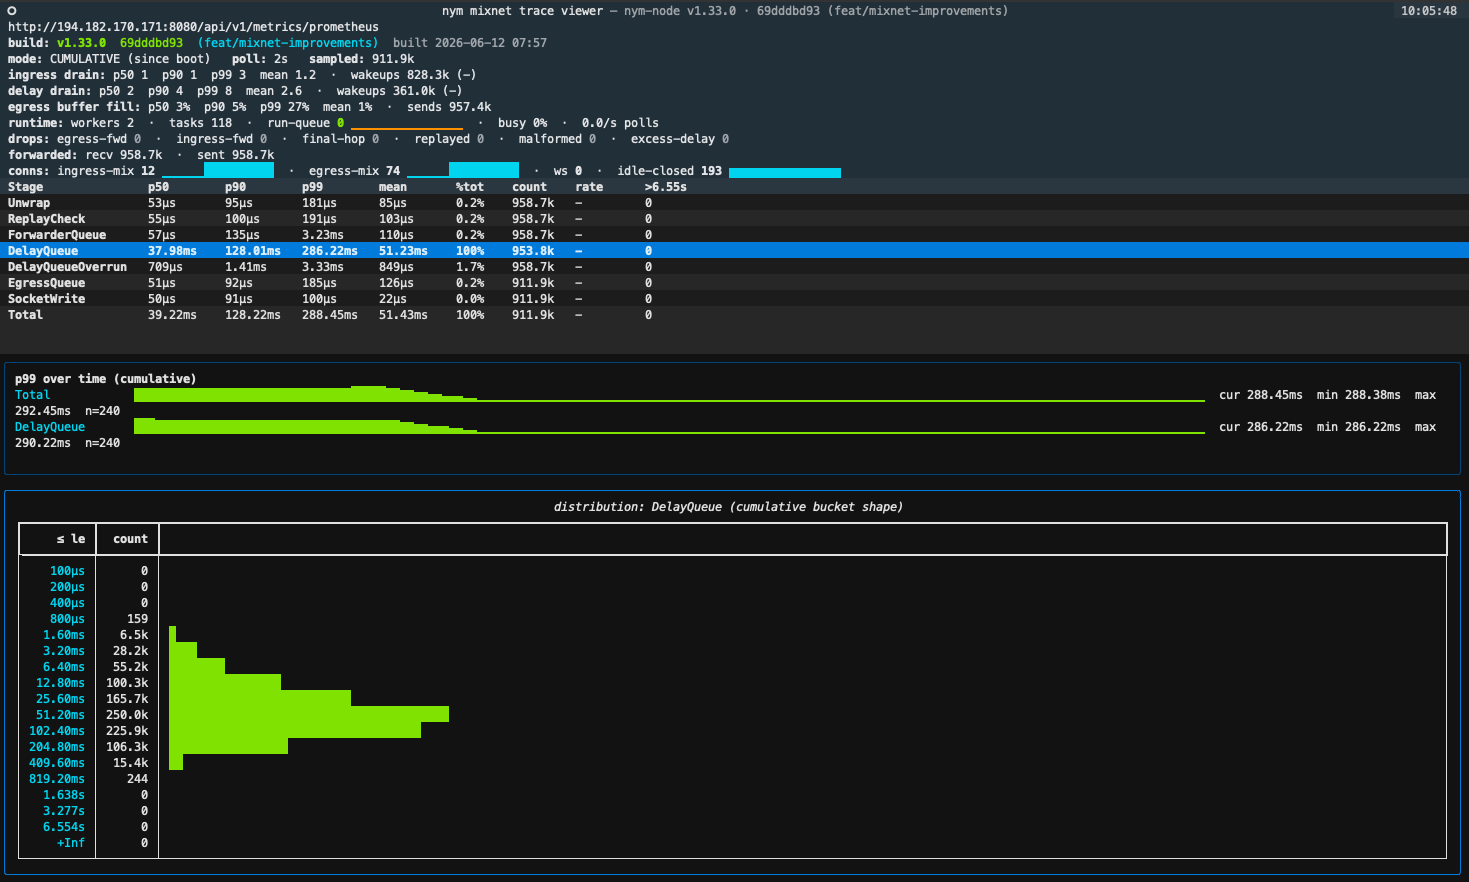
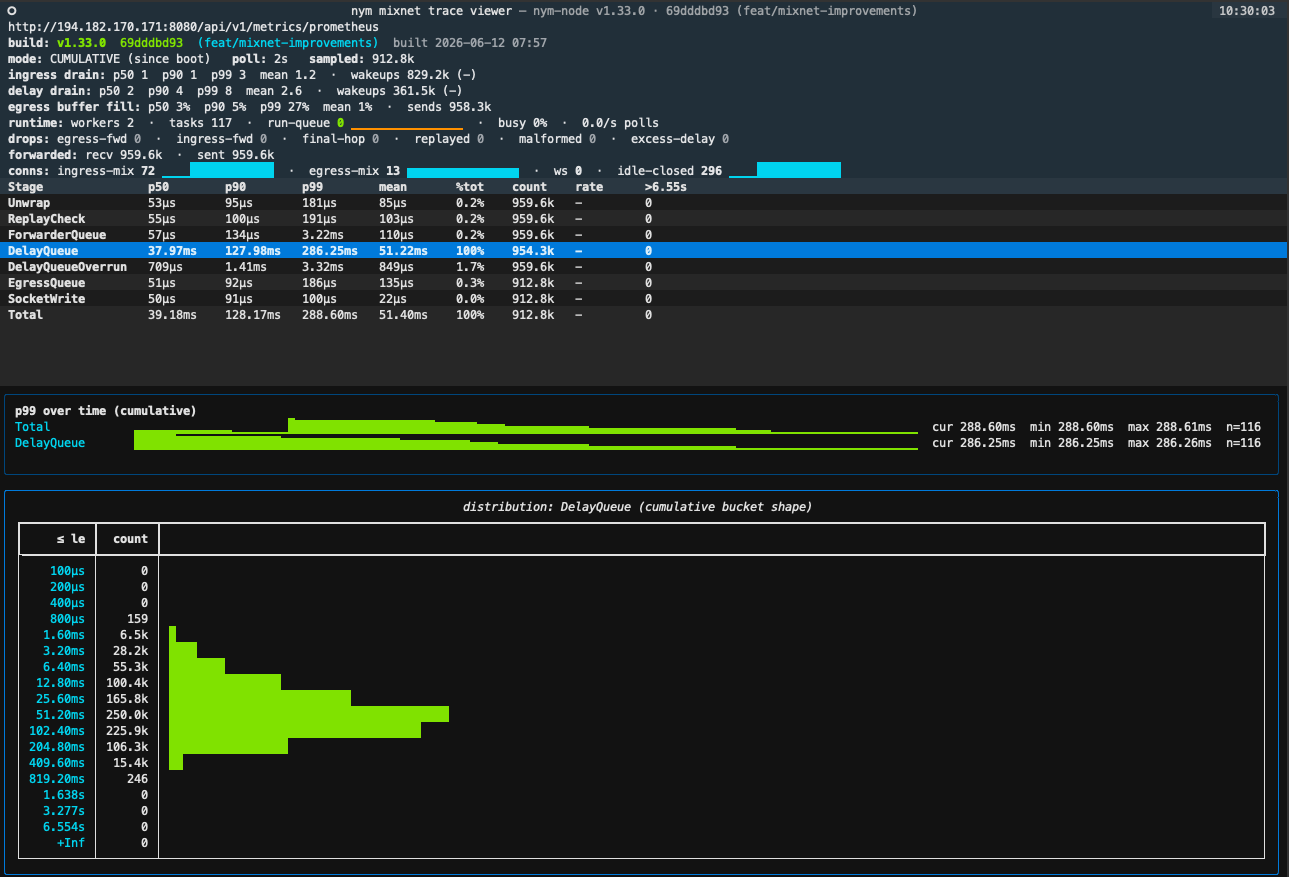
Fix p99-over-time panel wrapping stats onto a second line
The sparkline width reserved a fixed 52 cols for everything else, but the label (17) + gap (2) + cur/min/max/n stats (~47) need ~66, so each row overran the panel and the stats wrapped. Size the sparkline from the actual per-row stats length instead, so the line always fits within the panel width (the sparkline shrinks on narrow terminals rather than pushing the stats to the next line).

diff --git a/trace_viewer/app.py b/trace_viewer/app.py
@@ -366,22 +366,28 @@ class TraceViewer(App):
         metrics = [TOTAL_METRIC] if TOTAL_METRIC in self.history else []
         if selected not in metrics:
             metrics.append(selected)
-        width = max(20, panel.size.width - 52)
         mode = "cumulative" if self.cumulative else "window"
+        avail = panel.size.width or 80  # inner content width (border + padding already excluded)
+        label_w, gap = 17, "  "
         body = Text()
         body.append(f"p99 over time ({mode})\n", style="bold")
         for metric in metrics:
             hist = list(self.history.get(metric, []))
             vals = [v for v in hist if v is not None]
-            body.append(f"{STAGE_LABELS.get(metric, metric):<17}", style="cyan")
-            body.append(sparkline(hist, width) + "  ", style="green")
+            label = f"{STAGE_LABELS.get(metric, metric):<{label_w}}"
             if vals:
-                body.append(
+                stats = (
                     f"cur {human_seconds(vals[-1])}  "
                     f"min {human_seconds(min(vals))}  max {human_seconds(max(vals))}  n={len(vals)}"
                 )
             else:
-                body.append("no samples in window", style="dim")
+                stats = "no samples in window"
+            # size the sparkline to whatever's left after the label, joining gap, and the stats,
+            # so the stats stay on one line instead of wrapping
+            width = max(8, avail - label_w - len(gap) - len(stats) - 1)
+            body.append(label, style="cyan")
+            body.append(sparkline(hist, width) + gap, style="green")
+            body.append(stats, style="dim" if not vals else "")
             body.append("\n")
         panel.update(body)
 
